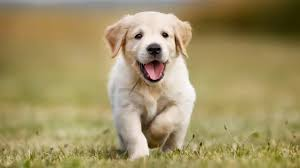
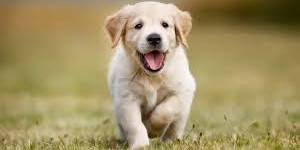
lab5

diff --git a/style_basic.css b/style_basic.css
@@ -9,7 +9,6 @@ body {
     top: 0%;
     left: 0%;
     width: 75%;
-    height: 15%;
     background-color: lightblue;
 }
 .block2 { 
@@ -17,7 +16,7 @@ body {
     top: 0%;
     right: 0;
     width: 25%;
-    height: 85%;
+    height: 100%;
     background-color: lightgreen; 
     ol {
         padding-left: 50px;
@@ -25,10 +24,10 @@ body {
 }
 .block3 { 
     position: fixed;
-    top: 12%;
+    top: 9%;
     left: 0%;
     width: 25%;
-    height: 73%;
+    height: 100%;
     background-color: peachpuff;
 }
 .block3 nav ul {
@@ -44,31 +43,34 @@ body {
 }
 .block4 { 
     position: fixed;
-    top: 12%;
+    top: 9%;
     left: 25%;
     width: 50%;
-    height: 10%;
     background-color: peachpuff;
 }
 .block5 { 
     position: fixed;
-    top: 21%;
+    top: 15%;
     left: 25%;
     width: 50%;
     background-color: white;
-    overflow-y: auto;
 }
 .block5 img {
-    width: 100%;
-    height: auto;
-    margin-top: 5px;
+    width: calc(100% - 50px);
+    margin: 0 auto;
+    display: block;
+    object-fit: cover;
+}
+.block5 p {
+    margin: 2px;
+    padding: 2px;
 }
 .block6 { 
     position: fixed;
     bottom: 0;
     left: 0;
     width: 100%;
-    height: 15%;
+    height: 9%;
     background-color: lightblue;
 }
 h1, h2 {

diff --git a/index.html b/index.html
@@ -41,7 +41,7 @@
     </div>
     <div class="block5">
         <p>Рід ссавців родини псових (Canidae), який об'єднує звірів з добре розвиненими довгими кінцівками, пристосованими до швидкого бігу (кігті невтяжні). Вони переслідують здобич, часто утворюють сім'ї та зграї. Цей рід включає вовків, шакала, койота, а також свійського пса.</p>
-        <img src="dog.jpg" alt="собака" usemap="#dogmap" style="width: 50%;">
+        <img src="dog.jpg" alt="собака" usemap="#dogmap">
         <map name="dogmap">
             <area shape="rect" coords="0,0,100,100" alt="Сторінка 3" href="page3.html">
         </map>
